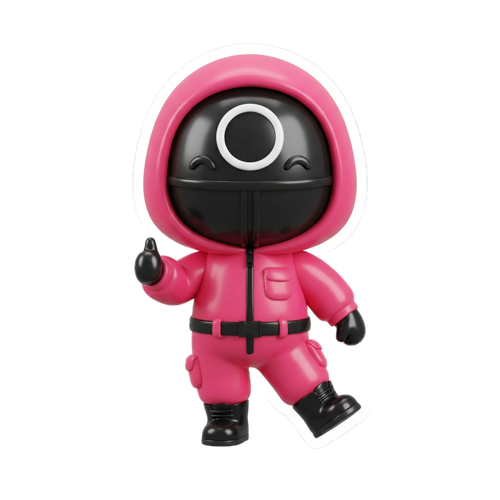
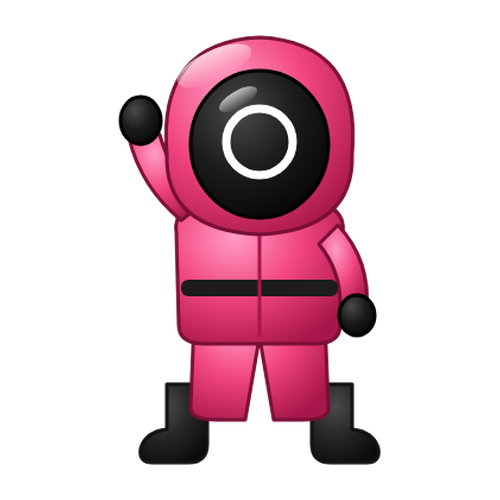
Облік: усі стікери костюмів перемальовано в одному стилі + генератор і правила стилю
Claude-Session: https://claude.ai/code/session_01UKjUafz19iT4muXrX4QEVg

Changed region(s): [[0.24, 0.06, 0.78, 0.93]]

diff --git a/orenda/media/st/_src/render.js b/orenda/media/st/_src/render.js
@@ -1,0 +1,3 @@
+const {chromium}=require('playwright');const fs=require('fs');(async()=>{const b=await chromium.launch();const p=await b.newPage({viewport:{width:500,height:500}});
+for(const f of fs.readdirSync(''+__dirname+'/svg')){const n=f.replace('.svg','');await p.setContent('<html><body style="margin:0;background:transparent">'+fs.readFileSync(''+__dirname+'/svg/'+f,'utf8')+'</body></html>');await p.screenshot({path:''+__dirname+'/raw_'+n+'.png',omitBackground:true,clip:{x:0,y:0,width:500,height:500}})}
+await b.close()})();

diff --git a/orenda/media/st/_src/gen.py b/orenda/media/st/_src/gen.py
@@ -1,0 +1,104 @@
+# Генератор стікерів «Облік»: один стиль для всіх костюмів
+def grad(id,c1,c2,c3):
+    return f'<radialGradient id="{id}" cx="35%" cy="28%" r="80%"><stop offset="0" stop-color="{c1}"/><stop offset=".5" stop-color="{c2}"/><stop offset="1" stop-color="{c3}"/></radialGradient>'
+SKIN=grad('sk','#ffe6cf','#ffd2b0','#eeac83')
+def defs(*g):return '<defs>'+SKIN+''.join(g)+'<linearGradient id="hl" x1="0" y1="0" x2="0" y2="1"><stop offset="0" stop-color="#fff" stop-opacity=".7"/><stop offset="1" stop-color="#fff" stop-opacity="0"/></linearGradient></defs>'
+def svg(body):return f'<svg xmlns="http://www.w3.org/2000/svg" width="500" height="500" viewBox="0 0 500 500">{body}</svg>'
+def face(cx=250,cy=176,hair='#5a3418',hairstyle='boy',mouth=True):
+    h=''
+    if hairstyle=='boy':h=f'<path d="M{cx-62} {cy-20} Q{cx-50} {cy-80} {cx} {cy-78} Q{cx+56} {cy-80} {cx+64} {cy-16} Q{cx+40} {cy-50} {cx} {cy-46} Q{cx-36} {cy-52} {cx-62} {cy-20} Z" fill="{hair}"/>'
+    elif hairstyle=='girl':h=f'<path d="M{cx-66} {cy+50} Q{cx-80} {cy-80} {cx} {cy-80} Q{cx+80} {cy-80} {cx+66} {cy+50} Q{cx+58} {cy-30} {cx} {cy-46} Q{cx-58} {cy-30} {cx-66} {cy+50} Z" fill="{hair}"/>'
+    elif hairstyle=='none':h=''
+    elif hairstyle=='hood':h=f'<path d="M{cx-50} {cy-26} Q{cx-20} {cy-58} {cx} {cy-56} Q{cx+26} {cy-58} {cx+52} {cy-24} Q{cx+26} {cy-40} {cx} {cy-38} Q{cx-24} {cy-40} {cx-50} {cy-26} Z" fill="{hair}"/>'
+    m=f'<path d="M{cx-14} {cy+26} Q{cx} {cy+42} {cx+14} {cy+26} Q{cx} {cy+33} {cx-14} {cy+26} Z" fill="#b8323f" stroke="#86202c" stroke-width="2"/>' if mouth else ''
+    return (f'<ellipse cx="{cx}" cy="{cy}" rx="58" ry="54" fill="url(#sk)"/>'+h+
+     f'<ellipse cx="{cx-22}" cy="{cy+2}" rx="10" ry="12" fill="#3b2412"/><ellipse cx="{cx+22}" cy="{cy+2}" rx="10" ry="12" fill="#3b2412"/>'
+     f'<circle cx="{cx-19}" cy="{cy-2}" r="4" fill="#fff"/><circle cx="{cx+25}" cy="{cy-2}" r="4" fill="#fff"/>'
+     f'<ellipse cx="{cx-38}" cy="{cy+22}" rx="10" ry="6" fill="#ff8f86" opacity=".55"/><ellipse cx="{cx+38}" cy="{cy+22}" rx="10" ry="6" fill="#ff8f86" opacity=".55"/>'+m)
+def shine(x,y,rx=34,ry=13,rot=-25):return f'<ellipse cx="{x}" cy="{y}" rx="{rx}" ry="{ry}" fill="url(#hl)" transform="rotate({rot} {x} {y})"/>'
+O=lambda c:f'stroke="{c}" stroke-width="3" stroke-linejoin="round"'
+def suit_kid(main,dark,legs=None,ldark=None,boots=None,bdark=None,glove=None,gdark=None,extra_back='',extra_front='',head='',belt=''):
+    legs=legs or main;ldark=ldark or dark;boots=boots or 'url(#bt)';glove=glove or main;gdark=gdark or dark
+    return (extra_back+
+     f'<path d="M206 380 v50 q0 16 -16 16 h-30 q-12 0 -10 -12 q4 -14 22 -16 v-38 z" fill="{boots}" {O(bdark or "#111")}/>'
+     f'<path d="M294 380 v50 q0 16 16 16 h30 q12 0 10 -12 q-4 -14 -22 -16 v-38 z" fill="{boots}" {O(bdark or "#111")}/>'
+     f'<path d="M196 300 L192 400 Q192 410 214 410 L238 410 L250 340 L262 410 L286 410 Q308 410 308 400 L304 300 Z" fill="{legs}" {O(ldark)}/>'
+     f'<path d="M180 252 Q176 230 214 222 L286 222 Q324 230 320 252 L318 330 Q318 346 296 346 L204 346 Q182 346 182 330 Z" fill="{main}" {O(dark)}/>'
+     f'<path d="M184 242 Q150 214 140 172 Q150 156 166 170 Q176 206 202 228 Z" fill="{main}" {O(dark)}/>'
+     f'<ellipse cx="150" cy="158" rx="17" ry="20" fill="{glove}" {O(gdark)}/>'
+     f'<path d="M316 246 Q344 276 340 318 Q328 326 318 312 Q318 284 300 262 Z" fill="{main}" {O(dark)}/>'
+     f'<ellipse cx="332" cy="322" rx="15" ry="17" fill="{glove}" {O(gdark)}/>'
+     +belt+extra_front+head)
+COMMON=defs(grad('bt','#4a4a4a','#262626','#0c0c0c'))
+P={}
+# --- Павук: чорно-червоний костюм-маска з павутиною
+web=''.join(f'<path d="M250 {176} L{250+int(90*__import__("math").cos(a))} {176+int(90*__import__("math").sin(a))}" stroke="#2a0a0a" stroke-width="2" opacity=".55"/>' for a in [i*0.785 for i in range(8)])
+P['pavuk']=svg(defs(grad('m','#ff6b6b','#e0202e','#8f0c16'),grad('k','#555','#262626','#0b0b0b'),grad('bt','#ff6b6b','#e0202e','#8f0c16'))+
+ suit_kid('url(#k)','#000',boots='url(#bt)',bdark='#5a0a10',glove='url(#m)',gdark='#5a0a10',
+  belt='<path d="M232 236 l18 30 l18 -30 l-18 10 z" fill="#e0202e"/><path d="M196 300 L304 300 L300 312 L200 312 Z" fill="#e0202e" opacity=".9"/>',
+  head='<ellipse cx="250" cy="170" rx="74" ry="72" fill="url(#k)" stroke="#000" stroke-width="3"/>'
+  '<g stroke="#e0202e" stroke-width="2.2" fill="none" opacity=".9"><path d="M250 98 V242 M176 170 H324 M198 118 L302 222 M302 118 L198 222"/><ellipse cx="250" cy="170" rx="30" ry="28"/><ellipse cx="250" cy="170" rx="54" ry="52"/></g>'
+  '<path d="M196 160 Q214 130 242 156 Q234 192 200 182 Z" fill="#fff" stroke="#000" stroke-width="5"/><path d="M304 160 Q286 130 258 156 Q266 192 300 182 Z" fill="#fff" stroke="#000" stroke-width="5"/>'+shine(212,124)))
+# --- Бетмен: темно-фіолетовий, маска з вушками, плащ, жовтий пояс
+P['batman']=svg(defs(grad('m','#8d6bd8','#4b2f8f','#24154d'),grad('c','#5a4a7a','#2a1f45','#120c20'),grad('bt','#4a4a4a','#262626','#0c0c0c'),grad('y','#fff2a0','#f2c230','#b8860b'))+
+ suit_kid('url(#m)','#1a0f36',glove='url(#c)',gdark='#120c20',
+  extra_back='<path d="M190 226 Q130 330 150 420 Q200 400 250 420 Q300 400 350 420 Q370 330 310 226 Z" fill="url(#c)" stroke="#0c0716" stroke-width="3"/>',
+  belt='<rect x="186" y="292" width="128" height="18" rx="6" fill="url(#y)" stroke="#8a6a08" stroke-width="2"/><path d="M228 252 q8 -10 22 -4 q14 -6 22 4 q-8 0 -10 8 q-12 -6 -24 0 q-2 -8 -10 -8 z" fill="#111"/>',
+  head=face(hairstyle='none')+'<path d="M190 176 Q186 112 214 100 L206 62 L234 94 Q250 88 266 94 L294 62 L286 100 Q314 112 310 176 Q290 168 272 174 Q262 160 250 160 Q238 160 228 174 Q210 168 190 176 Z" fill="url(#c)" stroke="#0c0716" stroke-width="3"/>'
+  '<path d="M210 168 Q226 158 240 170" stroke="#fff" stroke-width="4" fill="none" opacity=".0"/>'+shine(226,108,26,10)))
+# --- Охоронець: рожевий комбінезон з капюшоном, чорна маска з колом
+P['guard']=svg(defs(grad('m','#ff9cc4','#f2457f','#a8174b'),grad('k','#4a4a4a','#1c1c1c','#050505'),grad('bt','#4a4a4a','#262626','#0c0c0c'))+
+ suit_kid('url(#m)','#7a0f36',glove='url(#k)',gdark='#000',
+  belt='<rect x="184" y="292" width="132" height="14" rx="6" fill="#1c1c1c"/><path d="M250 226 V340" stroke="#a8174b" stroke-width="3"/>',
+  head='<path d="M172 186 Q164 92 250 88 Q336 92 328 186 Q330 250 250 254 Q170 250 172 186 Z" fill="url(#m)" stroke="#7a0f36" stroke-width="3"/>'
+  '<ellipse cx="250" cy="178" rx="58" ry="62" fill="url(#k)" stroke="#000" stroke-width="3"/><circle cx="250" cy="176" r="28" fill="none" stroke="#fff" stroke-width="7"/>'+shine(212,112)+shine(232,140,18,7,-30)))
+# --- Біомеханіка: дівчинка в біло-сріблястому костюмі
+P['biomeh']=svg(defs(grad('m','#ffffff','#e3e6ee','#a9afbf'),grad('g','#c9cfdc','#8d95a8','#5a6275'),grad('bt','#ffffff','#d8dce6','#9aa1b2'))+
+ suit_kid('url(#m)','#7d8496',boots='url(#bt)',bdark='#7d8496',glove='url(#g)',gdark='#4a5164',
+  belt='<g fill="url(#g)" stroke="#4a5164" stroke-width="2"><path d="M212 236 h76 l-8 22 h-60 z"/><rect x="226" y="268" width="48" height="22" rx="6"/><rect x="226" y="296" width="48" height="22" rx="6"/><rect x="200" y="340" width="20" height="44" rx="8"/><rect x="280" y="340" width="20" height="44" rx="8"/></g><circle cx="250" cy="246" r="7" fill="#7fd8ff"/>',
+  head=face(hair='#3b2414',hairstyle='girl')+shine(226,128,24,9)))
+# --- Супермен
+P['superman']=svg(defs(grad('m','#7ea6ff','#2f5ee0','#163591'),grad('r','#ff7a74','#e3262e','#9c0f17'),grad('y','#fff2a0','#f2c230','#b8860b'))+
+ suit_kid('url(#m)','#0f2468',boots='url(#r)',bdark='#6a0a10',
+  extra_back='<path d="M196 226 Q140 330 160 420 Q250 400 340 420 Q360 330 304 226 Z" fill="url(#r)" stroke="#6a0a10" stroke-width="3"/>',
+  belt='<rect x="186" y="292" width="128" height="16" rx="6" fill="url(#y)" stroke="#8a6a08" stroke-width="2"/><path d="M226 242 h48 l10 12 l-34 34 l-34 -34 z" fill="url(#r)" stroke="url(#y)" stroke-width="4"/>',
+  head=face(hair='#1b1b22')))
+# --- Щур (надувний): сірий капюшон з вушками, обличчя в отворі
+def inflatable(main,dark,belly,bdark,top='',back='',front='',rim=None,teeth=False):
+    rim=rim or main
+    t=''
+    if teeth:t='<g fill="#fff" stroke="#c8c8c8" stroke-width="1.5">'+''.join(f'<path d="M{x} {y} l{dx} {dy} l{ex} {ey} z"/>' for x,y,dx,dy,ex,ey in [(190,150,14,2,-6,13),(206,124,13,9,-10,9),(230,110,11,12,-13,4),(250,106,9,14,-15,0),(272,110,2,16,-13,-4),(294,124,-2,17,-11,-8),(310,150,-7,15,-7,-12),(196,212,13,-3,-4,13),(304,212,-13,-3,4,13)])+'</g>'
+    return (back+
+     f'<path d="M190 380 v52 q0 14 22 14 h24 q12 0 12 -14 v-52 z" fill="{main}" {O(dark)}/><path d="M252 380 v52 q0 14 12 14 h24 q22 0 22 -14 v-52 z" fill="{main}" {O(dark)}/>'
+     f'<ellipse cx="250" cy="300" rx="112" ry="108" fill="{main}" {O(dark)}/>'
+     f'<ellipse cx="250" cy="318" rx="68" ry="76" fill="{belly}" stroke="{bdark}" stroke-width="2"/>'
+     f'<path d="M146 276 Q108 246 112 214 Q128 206 140 228 Q150 252 170 262 Z" fill="{main}" {O(dark)}/>'
+     f'<path d="M352 268 Q384 284 388 306 Q374 314 362 298 Q352 290 342 288 Z" fill="{main}" {O(dark)}/>'
+     f'<path d="M148 168 Q148 52 250 50 Q352 52 352 168 Q352 254 250 256 Q148 254 148 168 Z" fill="{main}" {O(dark)}/>'
+     +top+f'<ellipse cx="250" cy="174" rx="78" ry="68" fill="{rim}" {O(dark)}/>'+face(cy=180,hairstyle='hood')+t+front+shine(196,86)+'<ellipse cx="184" cy="272" rx="20" ry="38" fill="#fff" opacity=".22"/>')
+P['rat']=svg(defs(grad('m','#d9dbe2','#9a9ea9','#5f636e'),grad('b','#fff3e6','#ead6c0','#c9ab8c'),grad('pk','#ffd0d6','#f59bab','#d0627a'))+
+ inflatable('url(#m)','#4a4e58','url(#b)','#b8987a',
+  back='<path d="M336 370 Q430 370 440 300 Q452 290 456 304 Q448 392 340 404 Z" fill="url(#pk)" stroke="#a84a5e" stroke-width="3"/>',
+  top='<circle cx="168" cy="76" r="40" fill="url(#m)" stroke="#4a4e58" stroke-width="3"/><circle cx="168" cy="76" r="24" fill="url(#pk)"/><circle cx="332" cy="76" r="40" fill="url(#m)" stroke="#4a4e58" stroke-width="3"/><circle cx="332" cy="76" r="24" fill="url(#pk)"/>'
+  '<ellipse cx="250" cy="96" rx="20" ry="14" fill="url(#pk)" stroke="#a84a5e" stroke-width="2"/><g stroke="#4a4e58" stroke-width="2"><path d="M222 100 h-36 M222 108 h-32 M278 100 h36 M278 108 h32"/></g>',
+  rim='#7a7e89'))
+def shark(main,dark,c1,c2,c3,skel=False):
+    g=defs(grad('m',c1,c2,c3),grad('b','#ffffff','#f1f2f5','#c9ccd6'))
+    fin='<path d="M330 120 Q392 96 404 70 Q406 150 352 196 Z" fill="url(#m)" stroke="'+dark+'" stroke-width="3"/>'
+    tail='<path d="M334 372 Q410 380 440 330 Q452 380 418 400 Q446 420 440 446 Q400 420 338 410 Z" fill="url(#m)" stroke="'+dark+'" stroke-width="3"/>'
+    eyes='<circle cx="196" cy="112" r="11" fill="#111"/><circle cx="304" cy="112" r="11" fill="#111"/><circle cx="199" cy="109" r="4" fill="#fff"/><circle cx="307" cy="109" r="4" fill="#fff"/>'
+    belly='url(#b)';bd='#b9bcc8'
+    front=''
+    if skel:
+        belly='#1b1b1f';bd='#000'
+        front=('<g stroke="#f4f4f0" stroke-width="7" stroke-linecap="round" fill="none"><path d="M250 268 V368"/>'+''.join(f'<path d="M250 {y} Q{250-w} {y+4} {250-w-6} {y+16} M250 {y} Q{250+w} {y+4} {250+w+6} {y+16}"/>' for y,w in [(272,40),(294,44),(316,40),(338,32)])+
+               '</g><path d="M212 372 q38 -16 76 0 q-10 26 -38 22 q-28 4 -38 -22 z" fill="#f4f4f0"/><circle cx="236" cy="380" r="6" fill="#1b1b1f"/><circle cx="264" cy="380" r="6" fill="#1b1b1f"/>'
+               '<circle cx="196" cy="112" r="16" fill="#fff"/><circle cx="304" cy="112" r="16" fill="#fff"/>')
+    return svg(g+inflatable('url(#m)',dark,belly,bd,back=fin+tail,top=eyes+'<g stroke="'+dark+'" stroke-width="3" fill="none" opacity=".7"><path d="M340 172 q10 10 4 24 M334 186 q10 10 4 24"/></g>',rim='url(#m)',teeth=True,front=front))
+P['shark_pink']=shark('#f05a9a','#9c2a5c','#ffc2dc','#f472ad','#b8326f')
+P['shark_blue']=shark('#4fb3f0','#1d5f8f','#c6ecff','#5fbdf2','#2a74ad')
+P['shark_skeleton']=shark('#333','#000','#6a6a72','#2a2a30','#0b0b0e',skel=True)
+import os
+os.makedirs('svg',exist_ok=True)
+for k,v in P.items():open(f'svg/{k}.svg','w').write(v)
+print(' '.join(P))

diff --git a/orenda/media/st/_src/finish.py b/orenda/media/st/_src/finish.py
@@ -1,0 +1,15 @@
+import glob,os
+from PIL import Image, ImageFilter
+names=[]
+for f in sorted(glob.glob('/tmp/st/gen/raw_*.png')):
+    n=os.path.basename(f)[4:-4];names.append(n)
+    im=Image.open(f).convert('RGBA');bb=im.getbbox();im=im.crop(bb);s=max(im.size)
+    c=Image.new('RGBA',(s,s),(0,0,0,0));c.paste(im,((s-im.size[0])//2,(s-im.size[1])//2))
+    c=c.resize((430,430),Image.LANCZOS);fr=Image.new('RGBA',(500,500),(0,0,0,0));fr.paste(c,(35,35))
+    al=fr.getchannel('A').filter(ImageFilter.MaxFilter(17)).filter(ImageFilter.GaussianBlur(1.5))
+    w=Image.new('RGBA',(500,500),(255,255,255,0));w.putalpha(al);w.alpha_composite(fr);w.save(f'/tmp/st/gen/out_{n}.png')
+cols=4;rows=(len(names)+cols-1)//cols
+pv=Image.new('RGBA',(cols*300,rows*300),(255,240,210,255))
+for i,n in enumerate(names):
+    pv.alpha_composite(Image.open(f'/tmp/st/gen/out_{n}.png').resize((300,300),Image.LANCZOS),((i%cols)*300,(i//cols)*300))
+pv.save('/tmp/st/gen/sheet.png');print(names)

diff --git a/orenda/media/st/_src/README.md b/orenda/media/st/_src/README.md
@@ -1,0 +1,11 @@
+# Стікери костюмів «Облік» — єдиний стиль
+
+Усі стікери малюються з цих SVG одним генератором, щоб стиль був однаковий:
+мультяшна дитина в костюмі на весь зріст, велике обличчя (шкіра `#ffd2b0`, карі очі з бліком, рум'янець),
+об'ємні кольори через радіальний градієнт (світло зліва-згори), темна обводка 3 px у тон кольору,
+відблиск на голові, біла обводка-стікер ~8 px, PNG 500×500 з прозорим фоном, фігура ~430 px по центру.
+Надувні костюми — капюшон з отвором для обличчя (функція `inflatable`), облягаючі — `suit_kid`.
+
+Новий костюм: додай його в `gen.py` (або окремий SVG у тому ж стилі), потім
+`python3 gen.py && node render.js && python3 finish.py` і скопіюй `out_<назва>.png` у `orenda/media/st/`.
+Не змішувати з 3D-рендерами з нейромереж.
